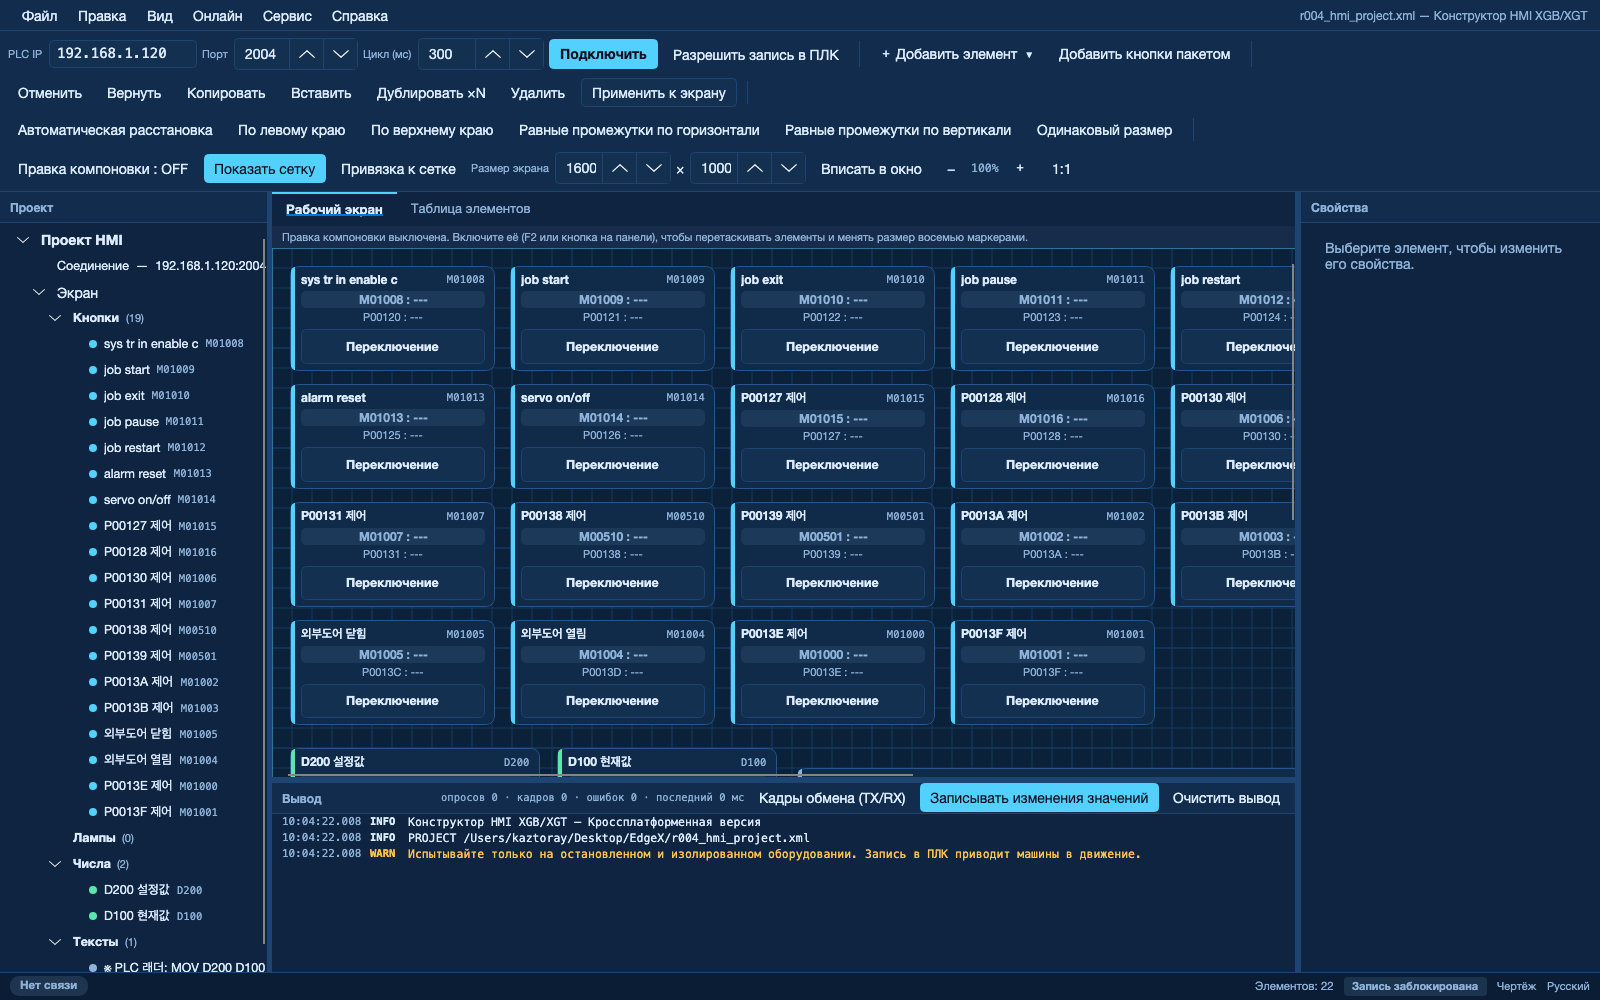
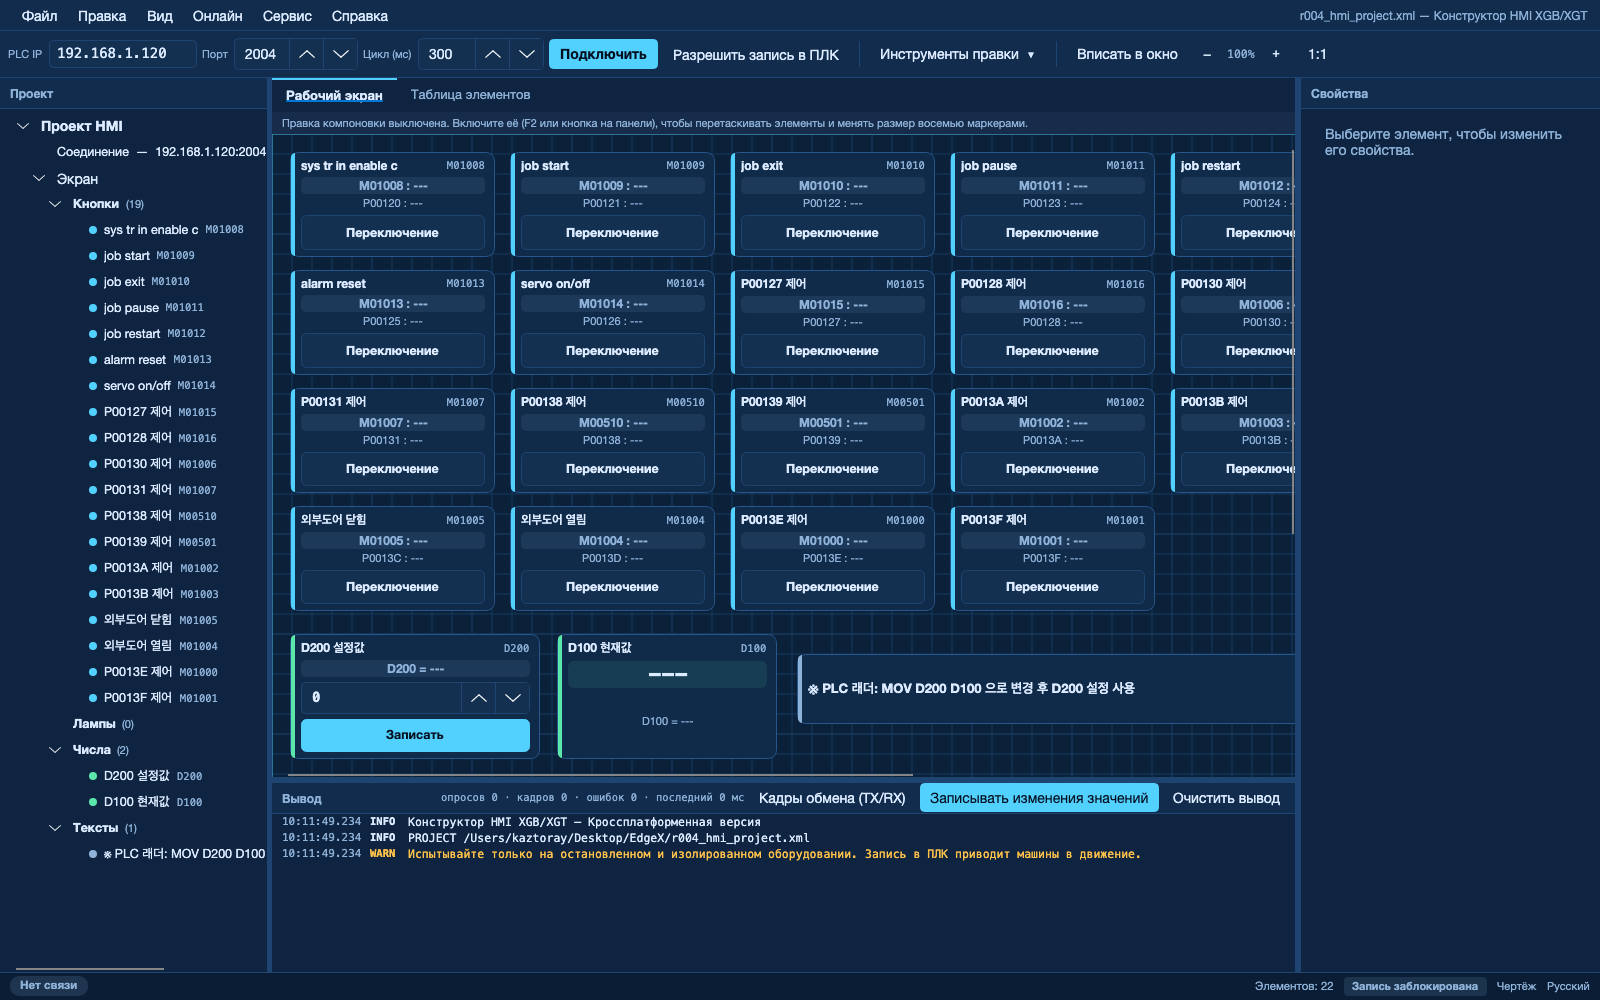
툴바의 화면 편집용 버튼을 '편집 도구' 버튼 하나로 모음
운전 화면을 보고 있어도 툴바 세 줄이 전부 화면 편집용 버튼으로
차 있었다. 운전 중에 쓰는 것만 밖에 두고 나머지는 버튼 하나에 담는다.

바뀐 툴바 (한 줄)
  PLC IP · 포트 · 주기 · 연결 · 쓰기 허용 │ 편집 도구 ▾ │ 창에맞추기 · 배율

편집 도구 ▾ 안
  요소 추가 ▸ (6종) · 스위치 수량 추가
  ☑ 배치 편집 · ☑ 격자 표시 · ☑ 격자에 맞추기
  실행 취소 · 다시 실행 · 복사 · 붙여넣기 · 선택 복제 ×N · 삭제
  정렬 ▸ (6종) · 화면 크기 [폭]×[높이] · 화면 적용

- 배치/격자/스냅 토글 버튼은 체크 메뉴 항목이 됐다. 배치 편집을
  켜고 끄는 길이 툴바와 F2 로 나뉘어 있던 것을 setLayoutMode 로 합쳤다.
- 화면 크기 입력칸은 메뉴 안에 그대로 넣었다. StaysOpenOnClick 이라
  값을 고치는 동안 메뉴가 닫히지 않는다.
- Ui.subMenu / Ui.controlMenuItem 추가, Ui.menuButton 은 항목 목록을
  그대로 받도록 바꿨다.
- 지난 커밋의 '＋ 요소 추가' 버튼은 이 메뉴의 하위 항목으로 들어갔다.
- cmd.editTools 키를 20개 언어에 추가했다.
- 단축키(F2, Ctrl+Z/Y/C/V, Delete)는 그대로 듣는다.

빌드 경고 0 / 오류 0, 테스트 52개 통과. README·스크린샷 갱신.

diff --git a/README.md b/README.md
@@ -60,7 +60,7 @@ XG5000 계열 도킹 배치를 따릅니다.
 
 ```
 ┌ 메뉴 (파일 / 편집 / 보기 / 온라인 / 도구 / 도움말) ───────────────────────┐
-├ 툴바 (접속 · ＋요소 추가 ▾ · 편집 · 정렬 · 배치/격자/배율) ──────────────┤
+├ 툴바 (접속 · 편집 도구 ▾ · 배율) ────────────────────────────────────────┤
 │ 프로젝트 트리 │ 문서 탭 [운전 화면 | 화면 편집]            │ 속성       │
 │ (요소 목록)   ├──────────────────────────────────────────┤ (선택 요소 │
 │               │ 출력 창 (통신 로그)                        │  전체 편집)│
@@ -70,15 +70,36 @@ XG5000 계열 도킹 배치를 따릅니다.
 
 * **프로젝트 트리** — 스위치/램프/숫자/텍스트로 묶어 보여줍니다. 항목을 고르면 캔버스와 표, 속성 창이 함께 선택됩니다.
 * **운전 화면** — 카드형 HMI. 상태는 색으로 표시되고, ON 인 요소는 모든 테마에서 발광합니다(아래 *라이팅* 참조).
-  도면(작화 영역)이 테두리로 표시되고 그 안팎을 자유롭게 스크롤합니다. 도면 크기는 툴바의 `화면 크기` 로 바꿉니다(기본 1600×1000).
+  도면(작화 영역)이 테두리로 표시되고 그 안팎을 자유롭게 스크롤합니다. 도면 크기는 `편집 도구 ▾` 의 `화면 크기` 로 바꿉니다(기본 1600×1000).
 * **화면 편집(표)** — 여러 행 선택, 셀 직접 편집. v6의 DataGridView 편집 기능을 그대로 옮겼습니다.
   `형식` 과 `스위치 동작` 은 칸을 눌러 목록에서 고릅니다.
 * **속성 창** — 선택한 요소의 모든 값을 편집합니다. 종류에 따라 필요 없는 칸은 자동으로 숨겨집니다.
 * **출력 창** — 통신 로그. `시각 · 등급(INFO/OK/WARN/ERR/TRC) · 내용` 3단으로 보여 줍니다. 자세한 내용은 아래 참조.
 
+### 툴바
+
+운전 중에 늘 쓰는 것만 밖에 두고, 화면을 고칠 때 쓰는 것은 **`편집 도구 ▾`** 버튼 하나에 모았습니다.
+
+```
+PLC IP [ ] 포트 [ ] 주기 [ ] [연결] [PLC 쓰기 허용] │ [편집 도구 ▾] │ [창에 맞추기] − 100% ＋ 1:1
+```
+
+`편집 도구 ▾` 안에 들어 있는 것:
+
+| 묶음 | 항목 |
+|---|---|
+| 추가 | 요소 추가 ▸ (6종) · 스위치 수량 추가 |
+| 보기 | ☑ 배치 편집 · ☑ 격자 표시 · ☑ 격자에 맞추기 |
+| 되돌리기 | 실행 취소 · 다시 실행 |
+| 편집 | 복사 · 붙여넣기 · 선택 복제 ×N · 삭제 |
+| 배치 | 정렬 ▸ (6종) · 화면 크기 [폭] × [높이] |
+| 반영 | 화면 적용 |
+
+단축키(F2, Ctrl+Z/Y/C/V, Delete 등)는 메뉴를 열지 않아도 그대로 듣습니다.
+
 ### 요소 종류 (형식)
 
-툴바의 **`＋ 요소 추가 ▾`** 를 누르면 목록이 열립니다. 편집 메뉴에도 같은 항목이 있습니다.
+툴바 **`편집 도구 ▾` → `요소 추가`** 에서 고릅니다. 메뉴바의 `편집` 메뉴에도 같은 항목이 있습니다.
 
 | 형식 | 주소 | 내용 |
 |---|---|---|
@@ -137,9 +158,9 @@ XG5000 계열 도킹 배치를 따릅니다.
 * 배치 편집 중에는 **PLC로 어떤 명령도 보내지 않습니다** (v6와 동일한 안전 규칙)
 * 격자 표시 / 격자에 맞추기(10px 스냅) / 배율(40~300%)은 새로 추가된 편의 기능입니다.
 
-> 이동·크기조절은 **배치 편집이 켜져 있을 때만** 됩니다(PLC 오조작 방지). 툴바 버튼에 `배치 편집 : 켬 / 끔` 이 그대로 표시되고, 운전 화면 위 안내줄도 상태에 따라 바뀝니다.
+> 이동·크기조절은 **배치 편집이 켜져 있을 때만** 됩니다(PLC 오조작 방지). 켜졌는지는 `편집 도구 ▾` 의 체크 표시와 운전 화면 위 안내줄로 확인합니다.
 
-### 자동 정렬 (편집 → 정렬, 툴바)
+### 자동 정렬 (편집 → 정렬, `편집 도구 ▾` → 정렬)
 
 | 명령 | 동작 |
 |---|---|
@@ -153,7 +174,7 @@ XG5000 계열 도킹 배치를 따릅니다.
 
 ### 넓은 화면에 많이 배치하기
 
-* **도면 크기** — 툴바 `화면 크기 [폭] × [높이]` (640×480 ~ 20000×20000). 프로젝트 XML에 `ScreenWidth` / `ScreenHeight` 로 저장되며, 이 항목이 없는 v6 파일은 기본값 1600×1000으로 열립니다.
+* **도면 크기** — `편집 도구 ▾` 의 `화면 크기 [폭] × [높이]` (640×480 ~ 20000×20000). 프로젝트 XML에 `ScreenWidth` / `ScreenHeight` 로 저장되며, 이 항목이 없는 v6 파일은 기본값 1600×1000으로 열립니다.
 * **자동 확장** — 요소를 도면 밖으로 끌어다 놓으면 도면이 그만큼 자동으로 넓어집니다. 저장할 때도 요소를 모두 담도록 맞춰집니다.
 * **스크롤** — 휠(세로) / `Shift`+휠(가로) / 스크롤바. 배치 편집 중 화면 가장자리로 끌면 저절로 스크롤됩니다.
 * **배율** — `Ctrl`(⌘)+휠, 툴바 `−` `+` `1:1`, 그리고 `창에 맞추기` (도면 전체를 한눈에).
